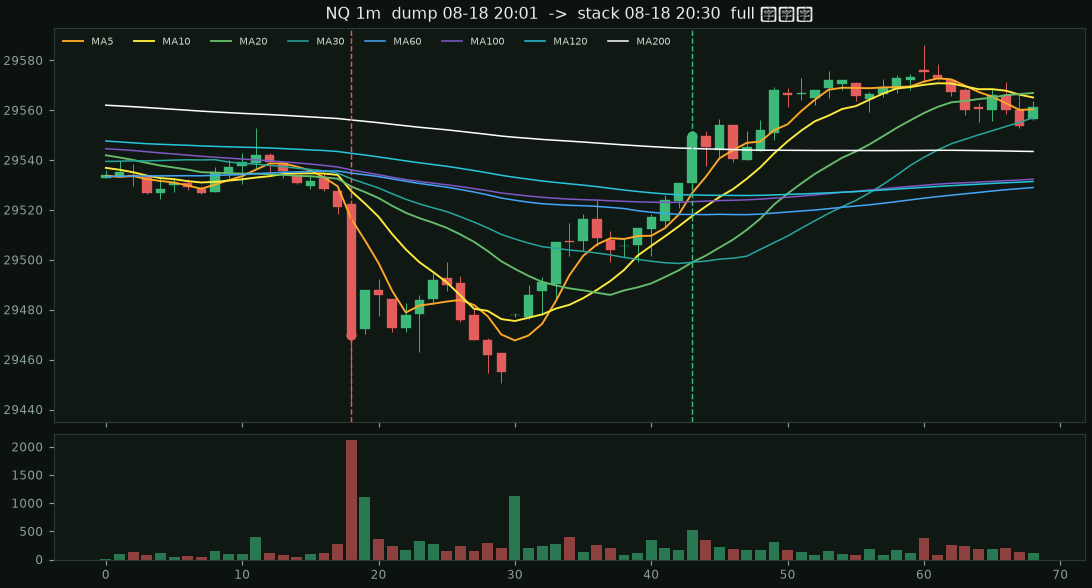
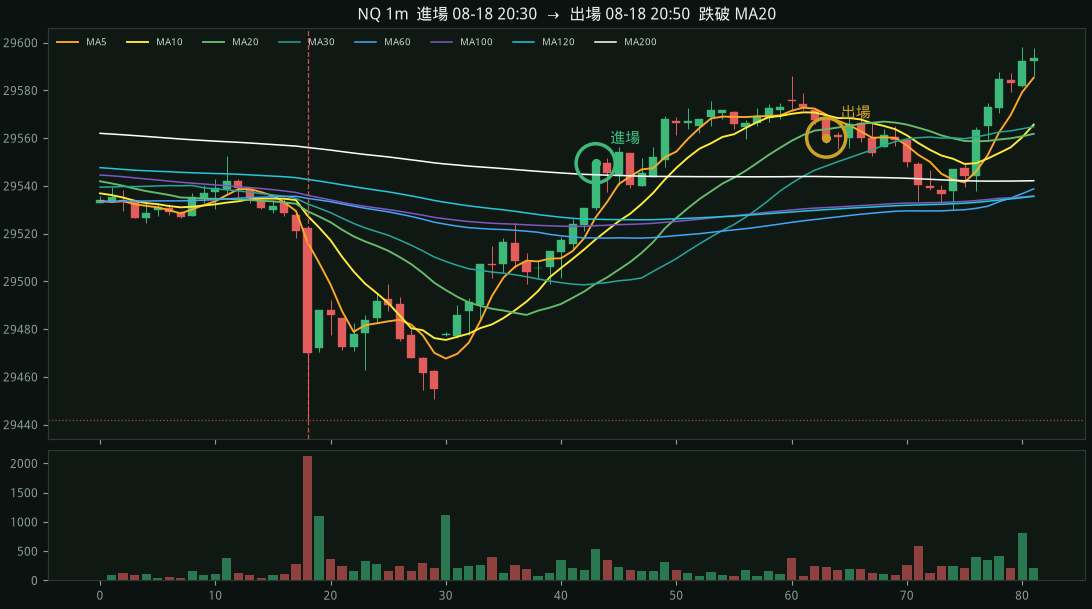
Circle 1m dump+MA entry and exit on each hit chart.
Entry is the first short-stack close; exit is dump-low stop, close
below MA20, or a 90-minute time stop.

diff --git a/docs/nq-1m-v/index.html b/docs/nq-1m-v/index.html
@@ -26,43 +26,49 @@ th{color:#8aa193;font-weight:600}
 <div class="wrap">
   <h1>NQ 一分 K 急跌 + 均線排列</h1>
   <p class="sub">
-    NQ=F · 2026-08-18 ~ 2026-08-25 · 7550 根 1m
-    （2026-08-18 00:09 ~ 2026-08-25 12:59 ET）。<br/>
-    只畫急跌後 90 分鐘內不破低、再走出 MA5&gt;10&gt;20 的命中。紅虛線急跌、綠虛線短均排列、金虛線完整八條。
+    NQ=F · 2026-08-18 ~ 2026-08-25 · 7556 根 1m
+    （2026-08-18 00:09 ~ 2026-08-25 13:05 ET）。<br/>
+    只畫急跌後 90 分鐘內不破低、再走出 MA5&gt;10&gt;20 的命中。綠圈進場、另一圈出場（停損急跌低、收盤跌破 MA20、或持滿 90 分）。
   </p>
   <div class="kpis">
-    <div class="kpi"><div class="k">嚴格命中</div><div class="v pos">1</div></div>
-    <div class="kpi"><div class="k">中等命中</div><div class="v">2</div></div>
-    <div class="kpi"><div class="k">圖上命中</div><div class="v pos">2</div></div>
+    <div class="kpi"><div class="k">嚴格命中</div><div class="v pos">2</div></div>
+    <div class="kpi"><div class="k">中等命中</div><div class="v">3</div></div>
+    <div class="kpi"><div class="k">圖上命中</div><div class="v pos">3</div></div>
   </div>
   <div class="card">
     <h2>急跌 × 均線梯子</h2>
     <table>
       <tr><th>條件</th><th>急跌</th><th>未破低</th><th>短均 5&gt;10&gt;20</th><th>接到 MA60</th><th>完整八條</th></tr>
-      <tr><td>嚴格（5×ATR 或 50 點、5×量、跌破全部均線）</td><td>5</td><td>1</td><td class="pos">1</td><td>1</td><td>0</td></tr>
-      <tr><td>中等</td><td>14</td><td>3</td><td>2</td><td>2</td><td>0</td></tr>
-      <tr><td>寬鬆</td><td>28</td><td>2</td><td>1</td><td>1</td><td>0</td></tr>
+      <tr><td>嚴格（5×ATR 或 50 點、5×量、跌破全部均線）</td><td>5</td><td>2</td><td class="pos">2</td><td>2</td><td>0</td></tr>
+      <tr><td>中等</td><td>14</td><td>4</td><td>3</td><td>3</td><td>0</td></tr>
+      <tr><td>寬鬆</td><td>28</td><td>3</td><td>2</td><td>2</td><td>0</td></tr>
     </table>
     <p class="note">圖只列急跌+排列命中，去重後標最嚴那一檔。不畫純均線、也不畫砸了但沒排好的。</p>
   </div>
   <h1 id="hits" style="margin-top:8px">急跌 + 排列</h1>
   
   <div class="card">
-    <h2>嚴格　急跌 08-18 20:01 → 短均 08-18 20:30 → 完整 未完成</h2>
+    <h2>嚴格　進場 08-18 20:30 → 出場 08-18 20:50</h2>
     <img src="./img/hit_0818_2001.png" alt="combo 08-18 20:01"/>
     <p class="note">
-      急跌 81.0 點 · 量比 10.0× · ATR 7.5×<br/>
-      短均進場 29549.50 · 200&gt;5&gt;120&gt;100&gt;60&gt;10&gt;20&gt;30<br/>
-      進場後 15/30/60m：<span class="pos">+23.2pt</span> / <span class="neg">-13.0pt</span> / <span class="pos">+18.2pt</span>
+      急跌 08-18 20:01 81.0 點 · 停損 29442.00<br/>
+      進場綠圈 29549.50 · 出場圈 29560.25 · 跌破 MA20 · <span class="pos">+10.8pt</span>
     </p>
   </div>
   <div class="card">
-    <h2>中等　急跌 08-19 15:50 → 短均 08-19 16:47 → 完整 未完成</h2>
+    <h2>中等　進場 08-19 16:47 → 出場 08-19 18:28</h2>
     <img src="./img/hit_0819_1550.png" alt="combo 08-19 15:50"/>
     <p class="note">
-      急跌 27.2 點 · 量比 3.2× · ATR 2.0×<br/>
-      短均進場 29537.50 · 200&gt;120&gt;100&gt;5&gt;10&gt;20&gt;30&gt;60<br/>
-      進場後 15/30/60m：<span class="pos">+57.0pt</span> / <span class="pos">+81.8pt</span> / <span class="pos">+96.0pt</span>
+      急跌 08-19 15:50 27.2 點 · 停損 29485.25<br/>
+      進場綠圈 29537.50 · 出場圈 29617.00 · 跌破 MA20 · <span class="pos">+79.5pt</span>
+    </p>
+  </div>
+  <div class="card">
+    <h2>嚴格　進場 08-24 08:49 → 出場 08-24 08:58</h2>
+    <img src="./img/hit_0824_0832.png" alt="combo 08-24 08:32"/>
+    <p class="note">
+      急跌 08-24 08:32 50.0 點 · 停損 29171.50<br/>
+      進場綠圈 29224.25 · 出場圈 29210.25 · 跌破 MA20 · <span class="neg">-14.0pt</span>
     </p>
   </div>
 </div>

diff --git a/examples/run_v_recovery.py b/examples/run_v_recovery.py
@@ -54,28 +54,64 @@ def _stem(ts: pd.Timestamp) -> str:
     return t.strftime("%m%d_%H%M")
 
 
-def _fwd(df: pd.DataFrame, idx: int, minutes: int) -> float | None:
-    j = idx + minutes
-    if j >= len(df):
-        return None
-    return float(df["close"].iloc[j] - df["close"].iloc[idx])
+EXIT_LABEL = {
+    "stop": "停損",
+    "ma20": "跌破 MA20",
+    "time": "持滿 90 分",
+}
+
+
+def _use_cjk_font() -> None:
+    import matplotlib
+
+    matplotlib.rcParams["font.sans-serif"] = [
+        "WenQuanYi Micro Hei",
+        "Droid Sans Fallback",
+        "DejaVu Sans",
+    ]
+    matplotlib.rcParams["axes.unicode_minus"] = False
+
+
+def _ring(ax, x: float, y: float, color: str, label: str, dy: int = 12) -> None:
+    ax.scatter(
+        [x],
+        [y],
+        s=720,
+        facecolors="none",
+        edgecolors=color,
+        linewidths=2.4,
+        zorder=8,
+        marker="o",
+    )
+    ax.scatter([x], [y], s=28, color=color, zorder=9)
+    ax.annotate(
+        label,
+        (x, y),
+        xytext=(10, dy),
+        textcoords="offset points",
+        color=color,
+        fontsize=10,
+        fontweight="normal",
+        zorder=10,
+    )
 
 
 def draw_combo(df: pd.DataFrame, combo: ComboSignal, path: Path, *, title: str) -> Path:
     import matplotlib
 
     matplotlib.use("Agg")
+    _use_cjk_font()
     import matplotlib.pyplot as plt
     from matplotlib.patches import Rectangle
 
     dump = combo.dump
     last = dump.idx
-    if combo.full:
-        last = combo.full.idx
-    elif combo.short:
-        last = combo.short.idx
+    if combo.short:
+        last = max(last, combo.short.idx)
+    if combo.exit_event:
+        last = max(last, combo.exit_event.idx)
     start = max(0, dump.idx - 18)
-    end = min(len(df) - 1, last + 25)
+    end = min(len(df) - 1, last + 18)
     window = df.iloc[start : end + 1]
     xs = range(len(window))
     o, h, l, c, v = window["open"], window["high"], window["low"], window["close"], window["volume"]
@@ -83,7 +119,7 @@ def draw_combo(df: pd.DataFrame, combo: ComboSignal, path: Path, *, title: str) 
     fig, (ax, axv) = plt.subplots(
         2,
         1,
-        figsize=(10.4, 5.6),
+        figsize=(10.4, 5.8),
         sharex=True,
         gridspec_kw={"height_ratios": [3.15, 1]},
         facecolor="#0c1210",
@@ -110,18 +146,19 @@ def draw_combo(df: pd.DataFrame, combo: ComboSignal, path: Path, *, title: str) 
         ax.plot(list(xs), window[f"ma{n}"], color=col, lw=1.3 if n <= 20 else 1.05, label=f"MA{n}")
 
     dx = dump.idx - start
-    ax.axvline(dx, color="#e35d5d", ls="--", lw=1.0)
-    ax.scatter([dx], [c.iloc[dx]], s=36, color="#e35d5d", zorder=5)
+    ax.axvline(dx, color="#e35d5d", ls="--", lw=0.9, alpha=0.85)
+    ax.axhline(dump.low, color="#e35d5d", ls=":", lw=0.9, alpha=0.7)
     if combo.short:
         sx = combo.short.idx - start
         if 0 <= sx < len(window):
-            ax.axvline(sx, color="#3dba7a", ls="--", lw=1.0)
-            ax.scatter([sx], [c.iloc[sx]], s=36, color="#3dba7a", zorder=5)
-    if combo.full and combo.short and combo.full.idx != combo.short.idx:
-        fx = combo.full.idx - start
-        if 0 <= fx < len(window):
-            ax.axvline(fx, color="#c9a227", ls=":", lw=1.1)
-            ax.scatter([fx], [c.iloc[fx]], s=32, color="#c9a227", zorder=5)
+            _ring(ax, sx, combo.short.entry, "#3dba7a", "進場", dy=14)
+    if combo.exit_event:
+        ex = combo.exit_event
+        xx = ex.idx - start
+        if 0 <= xx < len(window):
+            out_color = "#c9a227" if ex.pnl >= 0 else "#e35d5d"
+            dy = -18 if combo.short and abs(ex.idx - combo.short.idx) <= 8 else 14
+            _ring(ax, xx, ex.price, out_color, "出場", dy=dy)
 
     ax.set_title(title, color="#e8f0ea", fontsize=11)
     ax.legend(loc="upper left", fontsize=7, frameon=False, labelcolor="#c8d5cc", ncol=8)
@@ -169,24 +206,20 @@ def write_report(
         dump = combo.dump
         png = img_dir / f"hit_{_stem(dump.timestamp)}.png"
         short_t = _fmt(combo.short.timestamp) if combo.short else "—"
-        full_t = _fmt(combo.full.timestamp) if combo.full else "未完成"
-        draw_combo(
-            df,
-            combo,
-            png,
-            title=f"NQ 1m  dump {_fmt(dump.timestamp)}  ->  stack {short_t}  full {full_t}",
-        )
+        ex = combo.exit_event
+        exit_t = _fmt(ex.timestamp) if ex else "—"
+        reason = EXIT_LABEL.get(ex.reason, ex.reason) if ex else "—"
+        title = f"NQ 1m  進場 {short_t}  →  出場 {exit_t}  {reason}"
+        draw_combo(df, combo, png, title=title)
         entry = combo.short
-        pts = {m: _fwd(df, entry.idx, m) for m in (15, 30, 60)} if entry else {15: None, 30: None, 60: None}
         cards.append(
             f"""
   <div class="card">
-    <h2>{html.escape(tag)}　急跌 {_fmt(dump.timestamp)} → 短均 {html.escape(short_t)} → 完整 {html.escape(full_t)}</h2>
+    <h2>{html.escape(tag)}　進場 {html.escape(short_t)} → 出場 {html.escape(exit_t)}</h2>
     <img src="./img/{html.escape(png.name)}" alt="combo {_fmt(dump.timestamp)}"/>
     <p class="note">
-      急跌 {dump.range_pts:.1f} 點 · 量比 {dump.vol_ratio:.1f}× · ATR {dump.range_atr:.1f}×<br/>
-      短均進場 {(entry.entry if entry else 0):.2f} · {html.escape(entry.order_text if entry else '')}<br/>
-      進場後 15/30/60m：{_pt(pts[15])} / {_pt(pts[30])} / {_pt(pts[60])}
+      急跌 {_fmt(dump.timestamp)} {dump.range_pts:.1f} 點 · 停損 {dump.low:.2f}<br/>
+      進場綠圈 {(entry.entry if entry else 0):.2f} · 出場圈 {ex.price if ex else 0:.2f} · {html.escape(reason)} · {_pt(ex.pnl if ex else None)}
     </p>
   </div>"""
         )
@@ -224,7 +257,7 @@ th{{color:#8aa193;font-weight:600}}
   <p class="sub">
     {html.escape(symbol)} · {days[0]} ~ {days[-1]} · {len(df)} 根 1m
     （{html.escape(start)} ~ {html.escape(end)} ET）。<br/>
-    只畫急跌後 90 分鐘內不破低、再走出 MA5&gt;10&gt;20 的命中。紅虛線急跌、綠虛線短均排列、金虛線完整八條。
+    只畫急跌後 90 分鐘內不破低、再走出 MA5&gt;10&gt;20 的命中。綠圈進場、另一圈出場（停損急跌低、收盤跌破 MA20、或持滿 90 分）。
   </p>
   <div class="kpis">
     <div class="kpi"><div class="k">嚴格命中</div><div class="v pos">{strict['short']}</div></div>
@@ -261,8 +294,13 @@ def _print(name: str, ladder: dict) -> None:
     for c in ladder["signals"]:
         d = c.dump
         st = _fmt(c.short.timestamp) if c.short else "—"
-        ft = _fmt(c.full.timestamp) if c.full else "—"
-        print(f"  急跌 {_fmt(d.timestamp)} {d.range_pts:.1f}pt → 短均 {st} → 完整 {ft}")
+        if c.exit_event:
+            et = _fmt(c.exit_event.timestamp)
+            why = EXIT_LABEL.get(c.exit_event.reason, c.exit_event.reason)
+            pnl = f"{c.exit_event.pnl:+.1f}pt"
+        else:
+            et, why, pnl = "—", "—", ""
+        print(f"  急跌 {_fmt(d.timestamp)} {d.range_pts:.1f}pt → 進場 {st} → 出場 {et} {why} {pnl}")
 
 
 def main() -> int:

diff --git a/nq/ma_stack.py b/nq/ma_stack.py
@@ -66,10 +66,20 @@ class ComboSignal:
     short: StackSignal | None = None
     mid: StackSignal | None = None
     full: StackSignal | None = None
+    exit_event: "ExitEvent | None" = None
 
     @property
     def aligned(self) -> bool:
-        return self.short is not None and not self.broke_low
+        return self.short is not None
+
+
+@dataclass(frozen=True)
+class ExitEvent:
+    idx: int
+    timestamp: pd.Timestamp
+    price: float
+    reason: str
+    pnl: float
 
 
 def add_indicators(df: pd.DataFrame) -> pd.DataFrame:
@@ -211,7 +221,8 @@ def scan_dump(
             break
         row = df.iloc[j]
         if row["low"] < dump.low - TICK_SIZE:
-            combo.broke_low = True
+            if combo.short is None:
+                combo.broke_low = True
             break
         above = bool(row["above_all"])
         if combo.short is None and above and bool(row["stack_short"]):
@@ -223,6 +234,32 @@ def scan_dump(
     return combo
 
 
+def simulate_exit(
+    df: pd.DataFrame,
+    combo: ComboSignal,
+    *,
+    max_bars: int = 90,
+) -> ExitEvent | None:
+    """進場後：先看急跌低點停損，再看收盤跌破 MA20，否則持滿 max_bars。"""
+    if combo.short is None:
+        return None
+    entry = combo.short
+    stop = combo.dump.low
+    end = min(len(df) - 1, entry.idx + max_bars)
+    if end <= entry.idx:
+        return None
+    for j in range(entry.idx + 1, end + 1):
+        row = df.iloc[j]
+        if float(row["low"]) <= stop + 1e-12:
+            return ExitEvent(j, df.index[j], stop, "stop", stop - entry.entry)
+        ma20 = row.get("ma20")
+        if pd.notna(ma20) and float(row["close"]) < float(ma20):
+            px = float(row["close"])
+            return ExitEvent(j, df.index[j], px, "ma20", px - entry.entry)
+    px = float(df["close"].iloc[end])
+    return ExitEvent(end, df.index[end], px, "time", px - entry.entry)
+
+
 def dump_align_ladder(
     df: pd.DataFrame,
     spec: DumpSpec = STRICT_DUMP,
@@ -231,6 +268,9 @@ def dump_align_ladder(
 ) -> dict:
     dumps = find_dumps(df, spec)
     combos = [scan_dump(df, d, max_bars=max_bars) for d in dumps]
+    for combo in combos:
+        if combo.short is not None:
+            combo.exit_event = simulate_exit(df, combo)
     v = [c for c in combos if not c.broke_low]
     return {
         "dumps": len(dumps),

diff --git a/examples/test_v_recovery.py b/examples/test_v_recovery.py
@@ -47,6 +47,28 @@ def test_dump_plus_stack() -> None:
     sig = ladder["signals"][0]
     assert sig.short is not None
     assert sig.short.idx > sig.dump.idx
+    assert sig.exit_event is not None
+    assert sig.exit_event.idx > sig.short.idx
+    assert sig.exit_event.reason in {"stop", "ma20", "time"}
+
+
+def test_exit_hits_dump_low() -> None:
+    raw = make_dump_then_stack()
+    preview = dump_align_ladder(add_indicators(raw.copy()), STRICT_DUMP, max_bars=120)
+    assert preview["short"] >= 1
+    crash = preview["signals"][0].short.idx + 3
+    raw = raw.copy()
+    prev_close = float(raw["close"].iloc[crash - 1])
+    raw.iloc[crash, raw.columns.get_loc("open")] = prev_close
+    raw.iloc[crash, raw.columns.get_loc("high")] = prev_close
+    raw.iloc[crash, raw.columns.get_loc("low")] = 29380.0
+    raw.iloc[crash, raw.columns.get_loc("close")] = 29400.0
+    df = add_indicators(raw)
+    ladder = dump_align_ladder(df, STRICT_DUMP, max_bars=120)
+    ex = ladder["signals"][0].exit_event
+    assert ex is not None
+    assert ex.reason == "stop"
+    assert ex.price == ladder["signals"][0].dump.low
 
 
 def test_align_only_still_counts() -> None:
@@ -71,5 +93,6 @@ def test_align_only_still_counts() -> None:
 
 if __name__ == "__main__":
     test_dump_plus_stack()
+    test_exit_hits_dump_low()
     test_align_only_still_counts()
     print("self-test ok")

diff --git a/README.md b/README.md
@@ -41,7 +41,7 @@ python3 examples/watch_binance_ribbon.py          # 每根 1m 收盤掃一次
 
 ## 一分 K 急跌 + 均線多頭排列
 
-先有爆量急跌，90 分鐘內不破低，再走出 `MA5>10>20`（完整打開再到 60/100/120/200）。圖只畫這種命中，不畫純均線。
+先有爆量急跌，90 分鐘內不破低，再走出 `MA5>10>20` 進場（綠圈）。出場（另一圈）：碰到急跌低點停損、收盤跌破 MA20，或持滿 90 分。
 
 ```bash
 python3 examples/run_v_recovery.py
